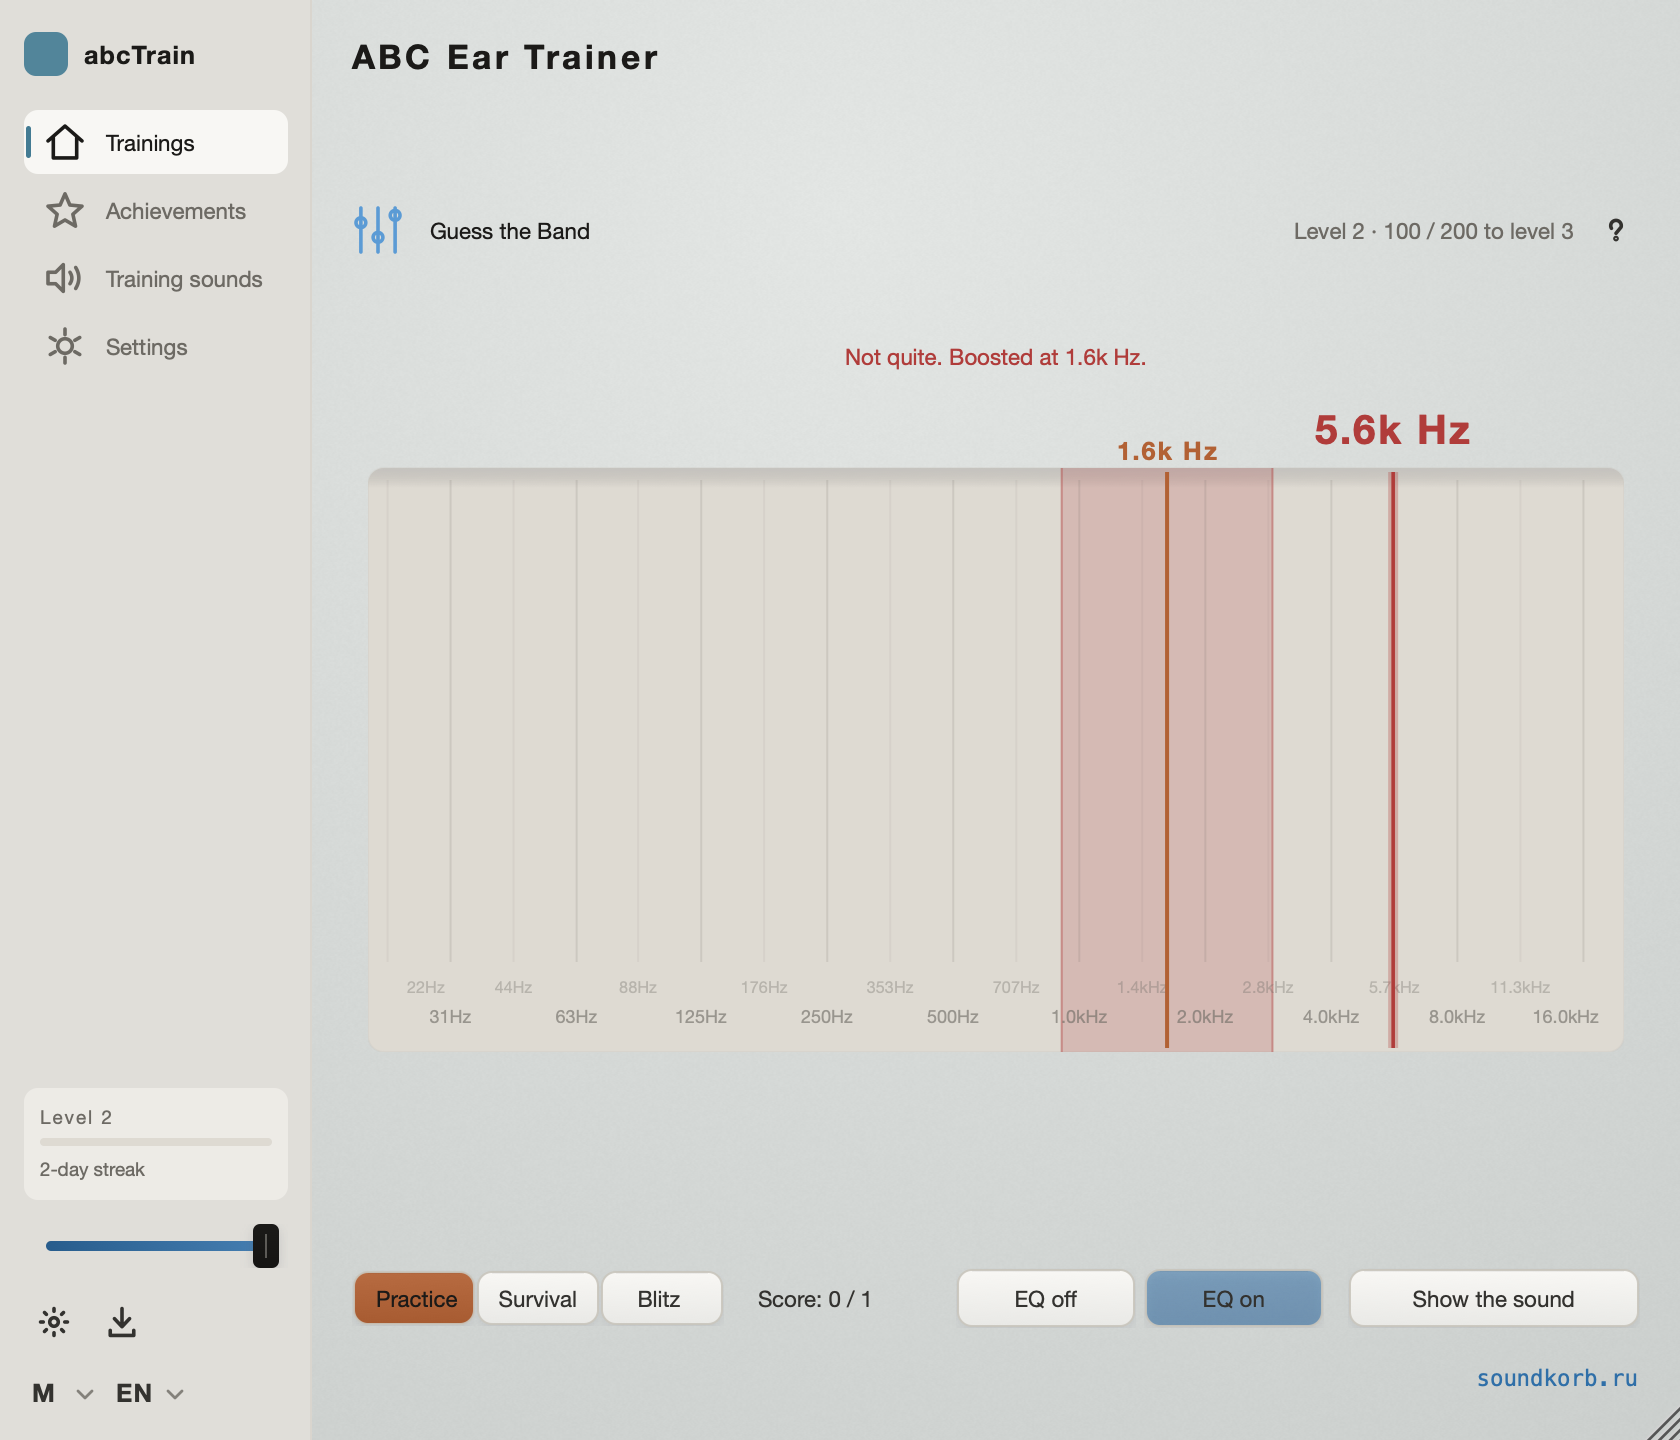
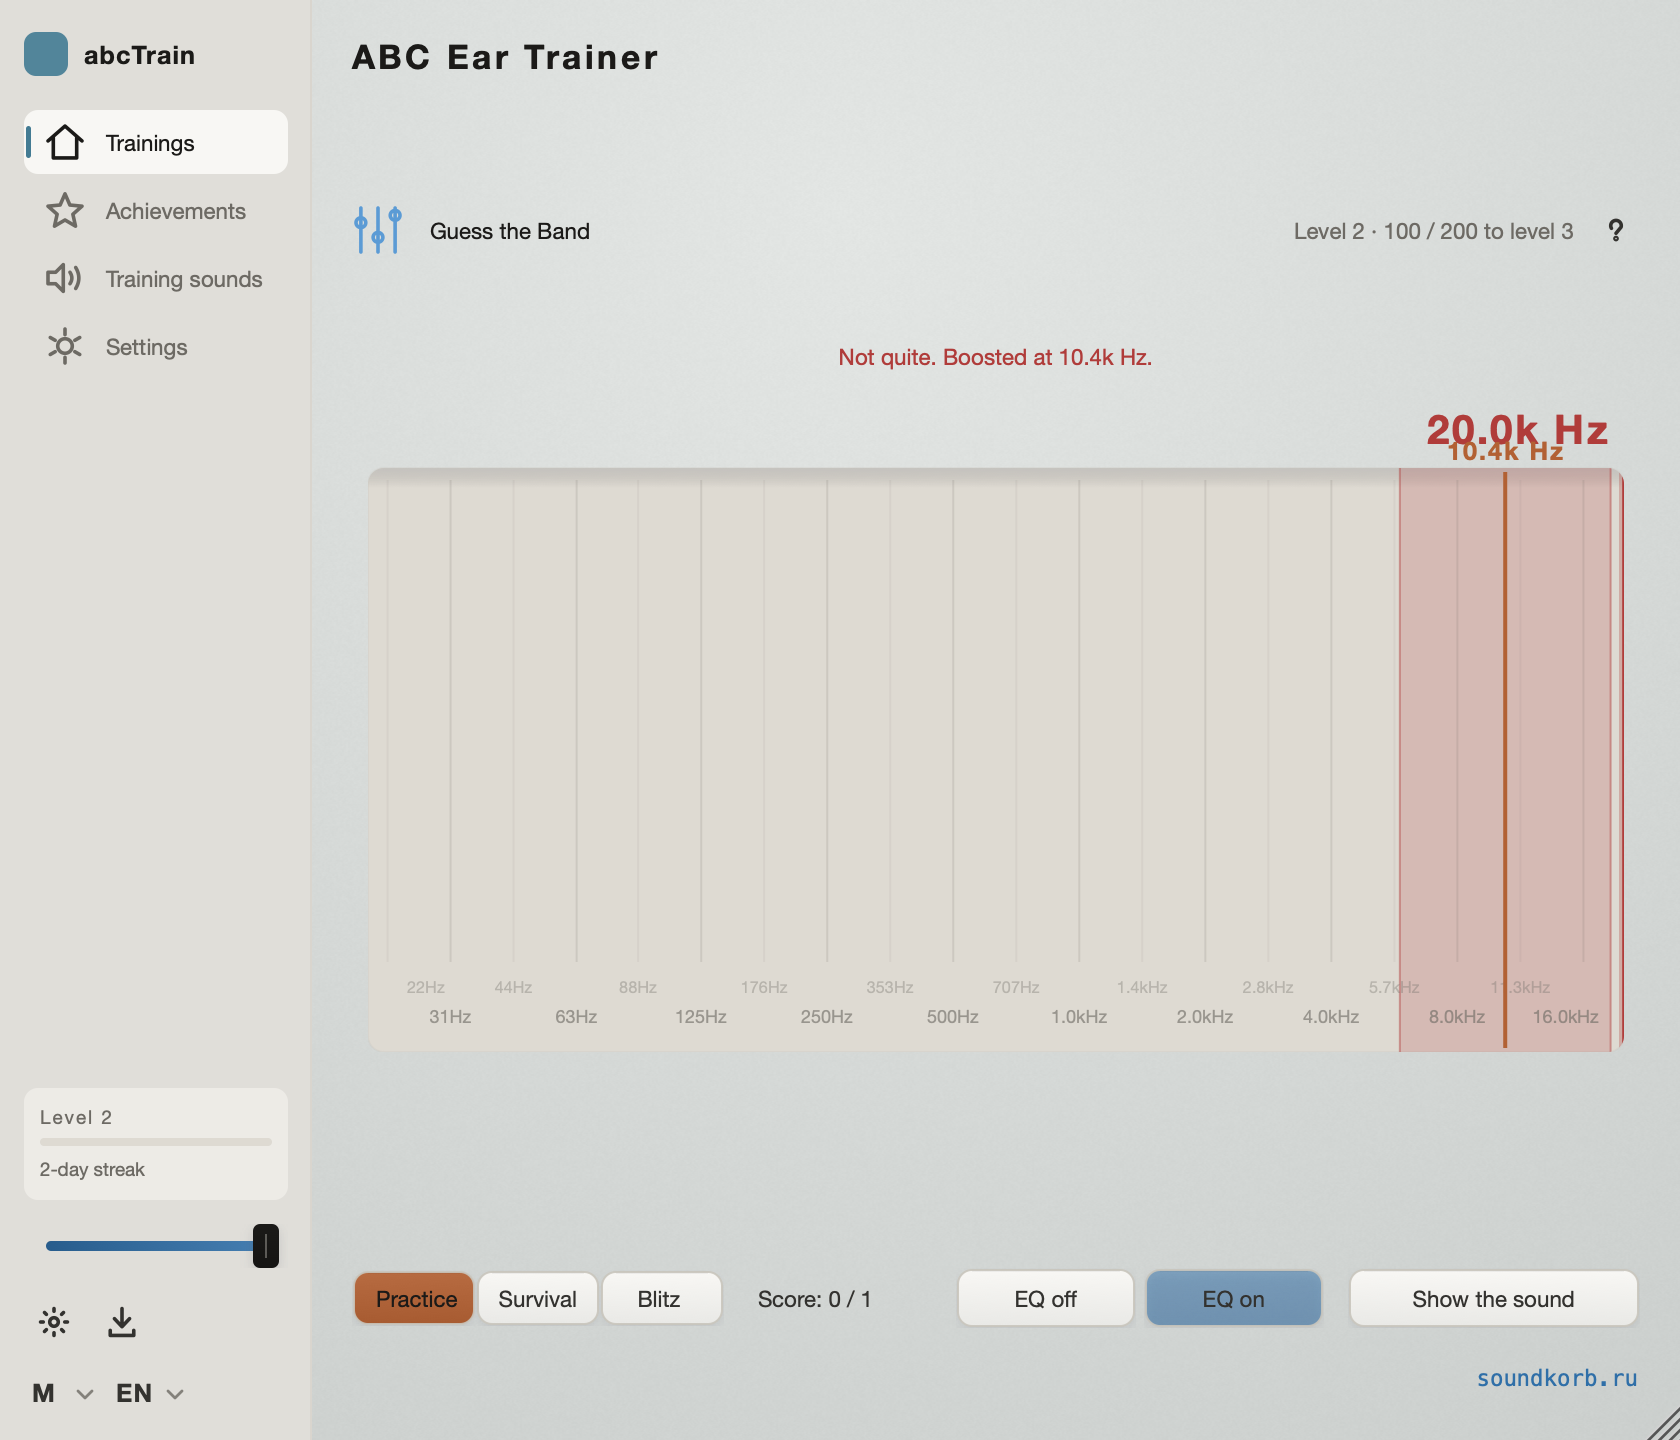
A hint should narrow the search, not answer the question
The hint opened a live analyser. On "find the frequency" that draws the
boost as a visible bump - so the player read the answer off a picture,
and in Survival paid a life for it. What they bought was permission not
to listen, in an application whose entire subject is listening. That is
the wrong shape for this product, and it is why the hints were the part
that felt worst.

On a ruler exercise a hint now shades the scale down to a region that
contains the answer and is three times the accept band wide. Wide enough
that the search is genuinely easier; far too wide to click the middle and
be right. The ear stays in the loop, which is the whole point.

The region is deliberately *not* centred on the answer - it drifts by up
to half its own width. A region whose middle is the answer is the answer
with extra steps.

Three times the band rather than a fixed fraction of the axis, so the
help is the same size relative to the task at every level: always six
accept bands of room, whether the band is a whole octave or a fifth of
one.

The categorical exercises keep the analyser. With two alternatives there
is nothing to narrow - eliminating one is the answer - and there the
picture genuinely teaches: seeing what compression does to an envelope is
the lesson, not a shortcut past it.

One bug in the seam, not the product: EditorSnapshots set hintRevealed by
hand, which was fine while a hint was only a panel appearing. It is not
[…]

Changed region(s): [[0.7738, 0.2812, 0.9595, 0.75], [0.619, 0.3125, 0.7738, 0.75], [0.4952, 0.2188, 0.681, 0.25]]

diff --git a/Source/PluginEditor.cpp b/Source/PluginEditor.cpp
@@ -1185,7 +1185,7 @@ void EarTrainerEditor::resized()
     // reads as space, where a dimmed placeholder box would read as a
     // broken element. Between hearing and answering, which is the order
     // you use it in.
-    if (hintRevealed)
+    if (hintRevealed && ! hintNarrowsTheScale())
     {
         hintSection = area.removeFromTop (hintPanelHeight);
 
@@ -1225,7 +1225,8 @@ void EarTrainerEditor::resized()
     }
 
     {
-        const auto showing = hintRevealed && currentScreen == Screen::training;
+        const auto showing = hintRevealed && ! hintNarrowsTheScale()
+                                 && currentScreen == Screen::training;
         const auto view = activeHintView();
 
         vectorscope.setVisible (showing && view == Game::HintView::stereo);
@@ -1335,7 +1336,8 @@ void EarTrainerEditor::resized()
         // taller scale is a more precise one. Two words do not: past about
         // 180px the cards stop being buttons and become walls.
         const auto onRuler = processor.getGameManager().getActiveGame().usesContinuousScale();
-        const auto continuousMax = hintRevealed ? 210 : 210 + hintPanelHeight;
+        const auto continuousMax = (hintRevealed && ! hintNarrowsTheScale()) ? 210
+                                                                             : 210 + hintPanelHeight;
         const auto maxScaleHeight = onRuler ? continuousMax : 190;
         const auto scaleHeight = juce::jlimit (onRuler ? 186 : 150, maxScaleHeight, inner.getHeight());
 
@@ -1880,6 +1882,7 @@ void EarTrainerEditor::clearHint()
         return;
 
     hintRevealed = false;
+    choiceSlider.clearHintRegion();
     vectorscope.setVisible (false);
     hintSpectrum.setVisible (false);
     hintWaveform.setVisible (false);
@@ -2406,9 +2409,29 @@ void EarTrainerEditor::requestHint()
     }
 
     hintRevealed = true;
-    vectorscope.reset();
-    hintWaveform.reset();
-    hintSpectrum.setSampleRate (processor.getSampleRate() > 0.0 ? processor.getSampleRate() : 44100.0);
+
+    auto& game = processor.getGameManager().getActiveGame();
+    const auto halfWidth = game.getHintHalfWidthNormalised();
+
+    if (halfWidth > 0.0f)
+    {
+        // Deliberately not centred on the answer. A region whose middle is
+        // the answer is the answer with extra steps - you would click the
+        // centre without listening and be right every time. Offsetting it
+        // keeps the whole region live: the answer is somewhere in here and
+        // you still have to find it.
+        const auto answer = game.getCorrectNormalised();
+        const auto drift = (hintRandom.nextFloat() * 2.0f - 1.0f) * halfWidth * 0.55f;
+
+        hintCentreForRound = juce::jlimit (halfWidth, 1.0f - halfWidth, answer + drift);
+        choiceSlider.setHintRegion (hintCentreForRound, halfWidth);
+    }
+    else
+    {
+        vectorscope.reset();
+        hintWaveform.reset();
+        hintSpectrum.setSampleRate (processor.getSampleRate() > 0.0 ? processor.getSampleRate() : 44100.0);
+    }
 
     refreshRunStatus();
     refreshHintButton();

diff --git a/Source/ChoiceSliderComponent.cpp b/Source/ChoiceSliderComponent.cpp
@@ -299,6 +299,13 @@ void ChoiceSliderComponent::paint (juce::Graphics& g)
     }
 }
 
+void ChoiceSliderComponent::setHintRegion (float centreNormalised, float halfWidthNormalised)
+{
+    hintCentre = juce::jlimit (0.0f, 1.0f, centreNormalised);
+    hintHalfWidth = juce::jmax (0.0f, halfWidthNormalised);
+    repaint();
+}
+
 void ChoiceSliderComponent::paintScale (juce::Graphics& g)
 {
     const auto& theme = AbcTrainTheme::current();
@@ -585,6 +592,39 @@ void ChoiceSliderComponent::paintContinuousScale (juce::Graphics& g)
     // that ever catches this class of bug here.
     const auto lowerRowY = scaleArea.getBottom() - labelRowHeight - 10.0f;
     const auto upperRowY = lowerRowY - labelRowHeight + 1.0f;
+
+    // The hint, if one was bought: everything outside the region is
+    // dimmed, so what remains is a shorter stretch of the same ruler
+    // rather than a marker pointing at the answer.
+    if (hintHalfWidth > 0.0f)
+    {
+        const auto left = xFor (hintCentre - hintHalfWidth);
+        const auto right = xFor (hintCentre + hintHalfWidth);
+
+        // The shadow colour, not the well's own: filling the well with the
+        // well's colour changes nothing, which is exactly what the first
+        // version did and the render showed. This one is black on the dark
+        // theme and a cool grey on the light one, so the dimming reads on
+        // both.
+        g.setColour (theme.shadow.withAlpha (0.55f * theme.shadowStrength));
+
+        if (left > scaleArea.getX())
+            g.fillRect (scaleArea.withRight (left));
+
+        if (right < scaleArea.getRight())
+            g.fillRect (scaleArea.withLeft (right));
+
+        // And the live stretch lifts very slightly, so the region reads as
+        // the part that is still in play rather than as a hole in a mask.
+        g.setColour (theme.accent.withAlpha (0.05f));
+        g.fillRect (scaleArea.withLeft (left).withRight (right));
+
+        // Two soft edges rather than two hard walls: the boundary is not
+        // information, the region is.
+        g.setColour (theme.accent.withAlpha (0.38f));
+        g.fillRect (left - 1.0f, scaleArea.getY(), 1.5f, scaleArea.getHeight());
+        g.fillRect (right, scaleArea.getY(), 1.5f, scaleArea.getHeight());
+    }
 
     for (const auto& mark : gridMarks)
     {

diff --git a/Source/PluginEditor.h b/Source/PluginEditor.h
@@ -115,14 +115,16 @@ public:
     // exercise" is a claim about three different pictures.
     void revealHintForSnapshot()
     {
-        hintRevealed = true;
-
-        // Through the same window-growth path the real one uses, not a
-        // bare resized(). The hint panel does not exist in the layout
-        // until it is bought and the window grows to make room for it -
-        // skipping that step laid the panel out inside the old height and
-        // pushed the mode pills straight onto the bottom tool bar, which
-        // is a bug in the snapshot seam rather than in the product.
+        // Through requestHint(), not by setting the flag.
+        //
+        // It used to set hintRevealed directly, which was fine while a
+        // hint was purely a panel becoming visible. It is not any more -
+        // on a ruler exercise a hint narrows the scale, and that region is
+        // computed where the hint is bought. Setting the flag by hand
+        // produced a contact sheet showing "hint bought" with no hint in
+        // it, which is a bug in the seam pretending to be a bug in the
+        // product. Practice never refuses, so this always succeeds.
+        requestHint();
         applyWindowSize();
     }
 
@@ -1037,6 +1039,16 @@ private:
     // One second of real practice, and the one place the support ask can
     // ever be triggered from.
     void countPracticeSecond();
+
+    // True where a bought hint shades the ruler rather than opening an
+    // analyser - i.e. every exercise answered on a scale.
+    bool hintNarrowsTheScale() const
+    {
+        return processor.getGameManager().getActiveGame().getHintHalfWidthNormalised() > 0.0f;
+    }
+
+    juce::Random hintRandom;
+    float hintCentreForRound = 0.0f;
 
     // The rail is on for the two screens you navigate between and off for
     // the welcome screen, which is a single thing with one button.

diff --git a/Source/Games/Game.h b/Source/Games/Game.h
@@ -192,6 +192,30 @@ public:
 
     virtual HintView getHintView() const { return HintView::spectrum; }
 
+    // What a hint should do on a ruler exercise: narrow the search, not
+    // answer the question.
+    //
+    // Returns the half-width, in normalised axis units, of a region that
+    // contains the answer. The editor shades everything outside it.
+    //
+    // This exists because the old hint was the wrong shape for this
+    // product. It showed a live analyser - so on "find the frequency" the
+    // spectrum drew the boost as a visible bump, and the player read the
+    // answer off a picture. In Survival that cost a life; what they bought
+    // with it was permission not to listen, in an application whose whole
+    // subject is listening.
+    //
+    // Narrowing keeps the ear in the loop. Three times the accept band is
+    // deliberate: enough that the search is genuinely easier, far too wide
+    // to click blindly in the middle and be right. A game returning 0
+    // offers no narrowing at all, which is the honest default for the
+    // categorical ones - with two alternatives, eliminating one *is* the
+    // answer.
+    virtual float getHintHalfWidthNormalised() const
+    {
+        return usesContinuousScale() ? juce::jmin (0.5f, getToleranceNormalised() * 3.0f) : 0.0f;
+    }
+
     // The two pieces of an answer the *editor* cannot derive on its own,
     // so it can compose the feedback sentence in the player's language
     // instead of showing getFeedbackText()'s English. Everything else it

diff --git a/Source/ChoiceSliderComponent.h b/Source/ChoiceSliderComponent.h
@@ -48,6 +48,13 @@ public:
     // round: the band's width is what actually changed.
     float getToleranceNormalised() const noexcept { return toleranceNormalised; }
 
+    // Shades everything outside a region that contains the answer. Half
+    // width in normalised units; 0 clears it. See
+    // Game::getHintHalfWidthNormalised for why a hint narrows rather than
+    // reveals.
+    void setHintRegion (float centreNormalised, float halfWidthNormalised);
+    void clearHintRegion() { setHintRegion (0.0f, 0.0f); }
+
     void setContinuousScale (std::vector<Game::GridMark> marks,
                              float toleranceNormalised,
                              std::function<juce::String (float)> formatter);
@@ -133,6 +140,8 @@ private:
     bool cursorEngaged = false;
     float cursorNormalised = 0.5f;
     float toleranceNormalised = 0.0f;
+    float hintCentre = 0.0f;
+    float hintHalfWidth = 0.0f;
     float targetNormalised = -1.0f;
     std::vector<Game::GridMark> gridMarks;
     std::function<juce::String (float)> valueFormatter;
